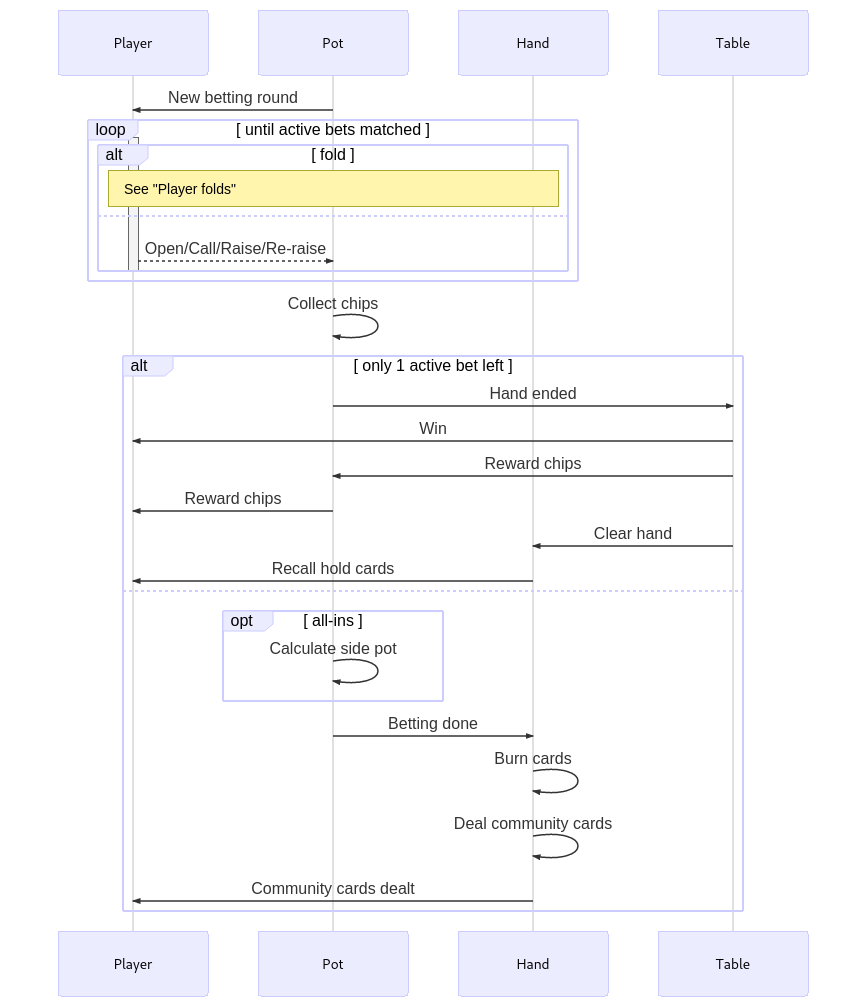
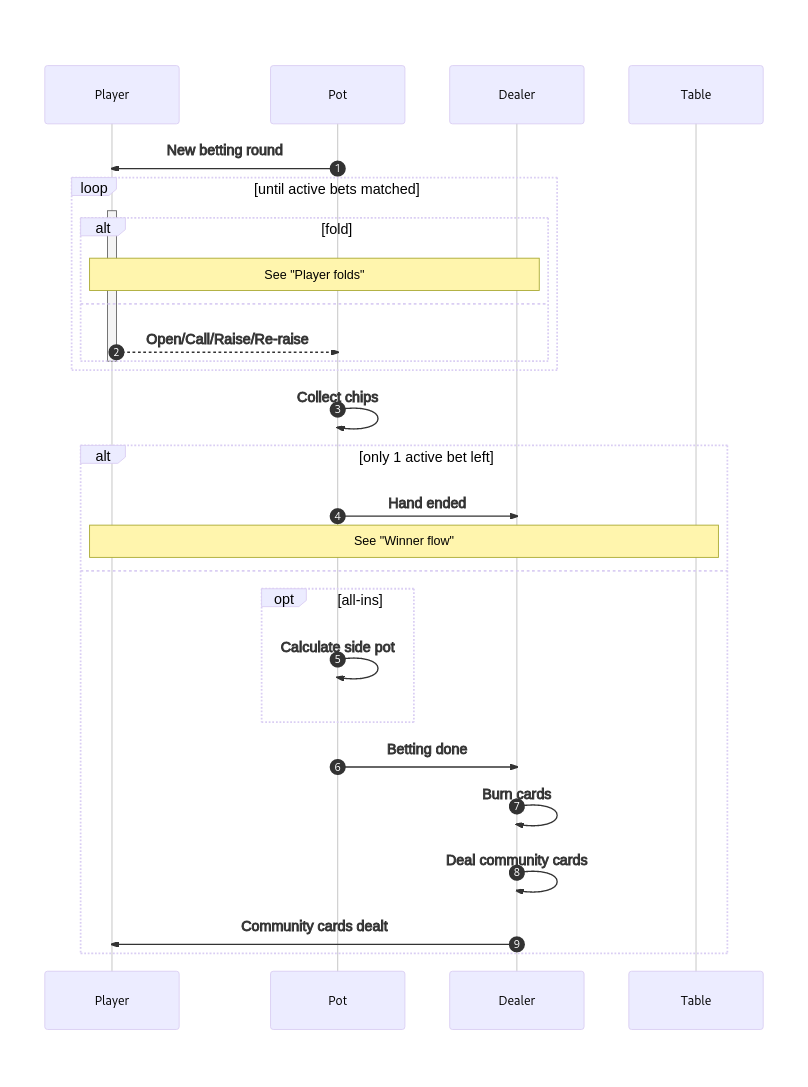
Refactor docs/SEQUENCES -> docs/FLOWS & update docs assets

diff --git a/docs/FLOWS.mermaid.md b/docs/FLOWS.mermaid.md
@@ -1,17 +1,18 @@
-**Goker sequence diagrams**
+# Goker flows
 
 - [Player flow](#player-flow)
-- [Hand flow](#hand-flow)
+- [Dealer flow](#dealer-flow)
 - [Betting flow](#betting-flow)
 - [Player folds](#player-folds)
+- [Winner flow](#winner-flow)
 
-# Player flow
+## Player flow
 
 ```mermaid
 sequenceDiagram
     participant Player
     participant Pot
-    participant Hand
+    participant Dealer
     participant Table
 
     Player->>+Table: Join table
@@ -27,28 +28,27 @@ sequenceDiagram
     alt is first Player
         Table->>Table: Wait for more Players
     else 
-        Table->>Table: Wait for next Hand
+        Table->>Table: Wait for next Dealer
     end
 
-    Table->>+Player: Start new hand
-    Note over Player,Table: See "Hand flow"
-    Player-->>-Table: Actions
+    Table->>Dealer: Start new hand
+    Note over Player,Table: See "Dealer flow"
 
     Player->>+Table: Left table
     Table->>-Table: Check and update dealer button
 ```
 
-# Hand flow
+## Dealer flow
 
 ```mermaid
 sequenceDiagram
     participant Player
     participant Pot
-    participant Hand
+    participant Dealer
     participant Table
 
-    Table->>Hand: Start new hand
-    Table->>Pot: Start new hand
+    Table->>Dealer: Start new hand
+    Dealer->>Pot: New betting rounds
 
     Pot->>+Player: "Pre-flop" betting round
     activate Player
@@ -59,32 +59,36 @@ sequenceDiagram
     end
     deactivate Player
     
-    Pot->>Hand: "Pre-flop" betting done
+    Pot->>Dealer: "Pre-flop" betting done
 
     loop until all hold cards are dealt
-        Hand->>Player: Deal hold cards
+        Dealer->>Player: Deal hold cards
     end
 
-    Pot->>+Player: "Flop" betting round
+    Pot->>Player: "Flop" betting round
+    activate Player
     Note over Player,Table: See "Betting flow"
-    Player-->>-Pot: Actions
 
-    Pot->>+Player: "Turn" betting round
+    Pot->>Player: "Turn" betting round
     Note over Player,Table: See "Betting flow"
-    Player-->>-Pot: Actions
 
-    Pot->>+Player: "River" betting round
+    Pot->>Player: "River" betting round
     Note over Player,Table: See "Betting flow"
-    Player-->>-Pot: Actions
+    deactivate Player
+
+    Dealer->>+Player: Showdown
+    Player-->>-Dealer: Face-up cards
+    Dealer->>Dealer: Rank player hands
+    Note over Player,Table: See "Winner flow"
 ```
 
-# Betting flow
+## Betting flow
 
 ```mermaid
 sequenceDiagram
     participant Player
     participant Pot
-    participant Hand
+    participant Dealer
     participant Table
 
     Pot->>Player: New betting round
@@ -92,7 +96,7 @@ sequenceDiagram
     loop until active bets matched
     activate Player
         alt fold
-            Note over Player,Hand: See "Player folds"
+            Note over Player,Dealer: See "Player folds"
         else
             Player-->>Pot: Open/Call/Raise/Re-raise
         end
@@ -102,20 +106,16 @@ sequenceDiagram
     Pot->>Pot: Collect chips
 
     alt only 1 active bet left
-        Pot->>Table: Hand ended
-        Table->>Player: Win
-        Table->>Pot: Reward chips
-        Pot->>Player: Reward chips
-        Table->>Hand: Clear hand
-        Hand->>Player: Recall hold cards
+        Pot->>Dealer: Hand ended
+        Note over Player,Table: See "Winner flow"
     else
         opt all-ins
             Pot->>Pot: Calculate side pot
         end
-        Pot->>Hand: Betting done
-        Hand->>Hand: Burn cards
-        Hand->>Hand: Deal community cards
-        Hand->>Player: Community cards dealt
+        Pot->>Dealer: Betting done
+        Dealer->>Dealer: Burn cards
+        Dealer->>Dealer: Deal community cards
+        Dealer->>Player: Community cards dealt
     end
 ```
 
@@ -125,17 +125,31 @@ sequenceDiagram
 sequenceDiagram
     participant Player
     participant Pot
-    participant Hand
+    participant Dealer
     participant Table
 
     Pot->>+Player: New betting round
     Player-->>-Pot: Fold
-    opt
-        Pot->>Pot: Collect chips
-    end
 
-    Pot->>Hand: Fold
-    Hand->>Hand: Exclude player from next betting rounds
-    Hand-->>+Player: Recall hold cards
-    Player->>-Hand: Hold cards
+    Pot->>Dealer: Fold
+    Dealer->>Dealer: Exclude player from next betting rounds
+    Dealer->>+Player: Recall hold cards
+    Player-->>-Dealer: Hold cards
+```
+
+## Winner flow
+
+```mermaid
+sequenceDiagram
+    participant Player
+    participant Pot
+    participant Dealer
+    participant Table
+
+    Dealer->>Player: Winner
+    Dealer->>Pot: Reward chips
+    Pot->>Player: Reward chips
+    Dealer->>+Player: Recall hold cards
+    Player-->>-Dealer: Hold cards
+    Dealer->>Table: Hand ended
 ```

diff --git a/docs/FLOWS.md b/docs/FLOWS.md
@@ -1,19 +1,20 @@
-**Goker sequence diagrams**
+# Goker flows
 
 - [Player flow](#player-flow)
-- [Hand flow](#hand-flow)
+- [Dealer flow](#dealer-flow)
 - [Betting flow](#betting-flow)
 - [Player folds](#player-folds)
+- [Winner flow](#winner-flow)
 
-# Player flow
+## Player flow
 
 ![Player flow](./assets/player_flow.png)
 
-# Hand flow
+## Dealer flow
 
-![Hand flow](./assets/hand_flow.png)
+![Dealer flow](./assets/dealer_flow.png)
 
-# Betting flow
+## Betting flow
 
 ![Betting flow](./assets/betting_flow.png)
 

diff --git a/README.md b/README.md
@@ -4,7 +4,7 @@ Poker machine, written in Go
 
 **Table of Contents**
 - Documentation
-	- [Sequence diagrams](./docs/SEQUENCES.md)
+	- [Flows](./docs/FLOWS.md)
 - [Components](#components)
 	- [Cards](#cards)
 	- [Decks](#decks)
